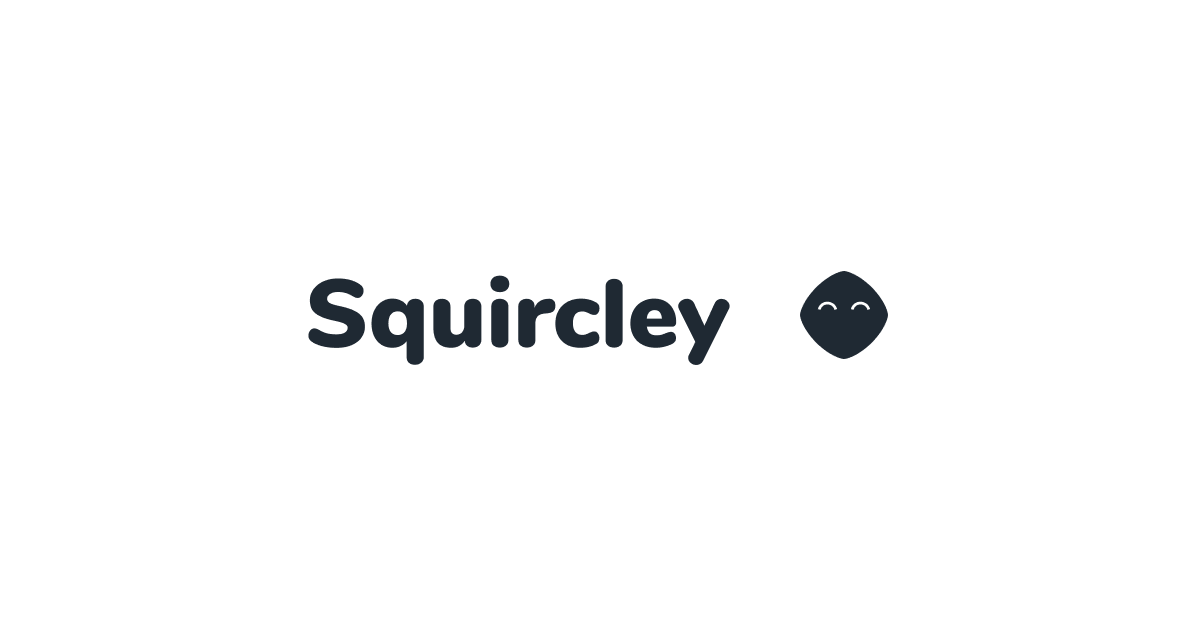
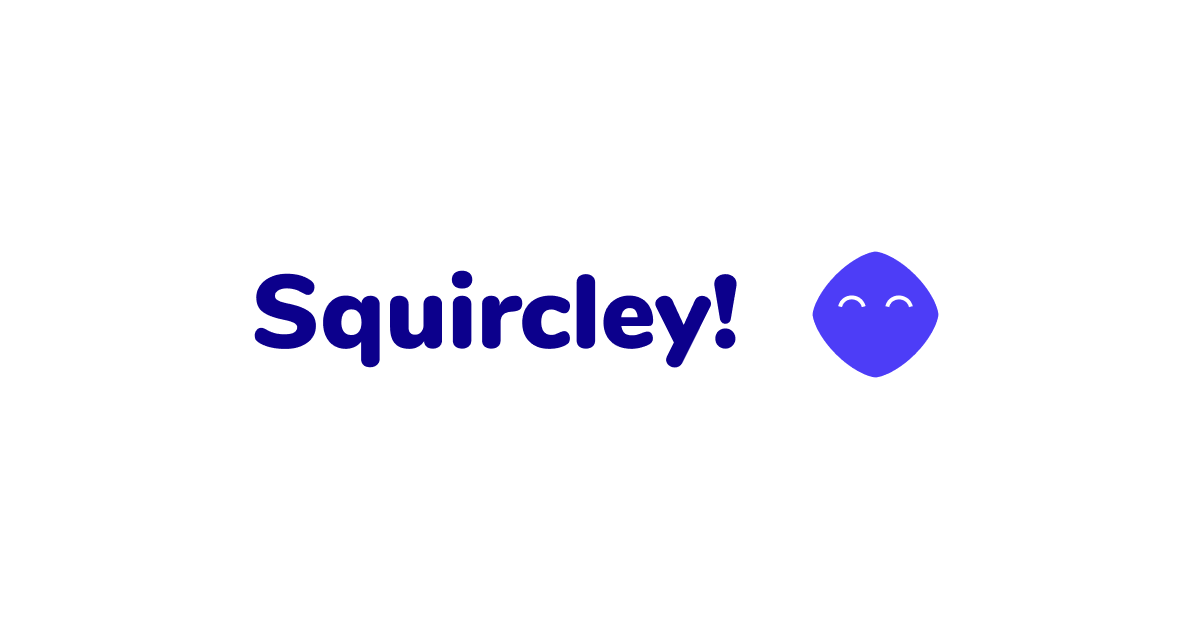
colors everywhere

Changed region(s): [[0.2158, 0.4222, 0.6167, 0.6032], [0.6475, 0.3921, 0.8017, 0.6032]]

diff --git a/src/components/GeneratorControls.vue b/src/components/GeneratorControls.vue
@@ -97,6 +97,24 @@ export default {
                 />
                 <VSwatches
                     v-model="fill"
+                    :swatches="[
+                        '#199473',
+                        '#65D6AD',
+                        '#C6F7E2',
+                        '#EFFCF6',
+                        '#035388',
+                        '#1992D4',
+                        '#5ED0FA',
+                        '#E3F8FF',
+                        '#8A041A',
+                        '#E12D39',
+                        '#F86A6A',
+                        '#FFE3E3',
+                        '#DE911D',
+                        '#F0B429',
+                        '#FADB5F',
+                        '#FFF3C4',
+                    ]"
                     :trigger-style="{
                         width: '64px',
                         height: '48px',
@@ -165,6 +183,7 @@ export default {
 .generator-conrols__swatch-text {
     position: relative;
     width: 100%;
+    min-width: 0;
     text-transform: uppercase;
     height: 100%;
     padding-left: var(--spacing-3);
@@ -175,7 +194,7 @@ export default {
     transition: border 125ms ease-in-out;
 }
 
-.generator-conrols__swatch-text:hover {
+.generator-controls__swatch:hover .generator-conrols__swatch-text {
     border: 2px solid var(--grey-100);
     border-right: 0;
 }
@@ -229,7 +248,7 @@ hr {
     transition: transform 125ms ease-in-out;
 }
 
-.vue-swatches__trigger__wrapper:hover {
+.generator-controls__swatch:hover .vue-swatches__trigger__wrapper {
     transform: scaleX(1.125);
 }
 </style>

diff --git a/src/components/GeneratorExportOptions.vue b/src/components/GeneratorExportOptions.vue
@@ -49,7 +49,9 @@ export default {
             class="generator-export-controls__btn"
             @click="copySVGToClipBoard"
         >
-            Copy
+            <span>
+                Copy
+            </span>
             <ClipBoardIcon />
         </button>
     </div>
@@ -75,9 +77,13 @@ export default {
     background: #fff;
     border-radius: 12px;
     font-weight: 700;
-    border: 2px solid var(--grey-100);
-    color: var(--grey-900);
-    transition: background-color 125ms ease-in-out;
+    border: 2px solid #4d3df7;
+    color: #4d3df7;
+    transition: transform 125ms ease-in-out;
+}
+
+.generator-export-controls__btn span {
+    transition: transform 125ms ease-in-out;
 }
 
 .generator-export-controls__btn svg {
@@ -85,15 +91,12 @@ export default {
     height: 24px;
     stroke-width: 1.5px;
     margin-left: var(--spacing-2);
-    stroke: var(--grey-900);
+    stroke: #4d3df7;
     transition: stroke 125ms ease-in-out, transform 125ms ease-in-out;
 }
 
-.generator-export-controls__btn:hover {
-    color: var(--grey-900);
-    font-weight: 700;
-    border-color: var(--grey-100);
-    background: var(--grey-000);
+.generator-export-controls__btn:hover svg {
+    transform: scale(1.125);
 }
 
 .generator-export-controls__btn:active svg {
@@ -102,5 +105,12 @@ export default {
 
 .generator-export-controls__btn:first-child {
     margin-left: 0;
+    background: #4d3df7;
+    color: #e6e6ff;
+    border: 0;
+}
+
+.generator-export-controls__btn:first-child svg {
+    stroke: #e6e6ff;
 }
 </style>

diff --git a/src/assets/styles/app.css b/src/assets/styles/app.css
@@ -55,6 +55,10 @@ button {
     background-color: transparent;
 }
 
+button > * {
+    pointer-events: none;
+}
+
 embed,
 iframe,
 img,
@@ -107,16 +111,16 @@ table {
     --spacing-15: 48rem;
 
     /* Colors - Grey */
-    --grey-900: #1f2933;
-    --grey-800: #323f4b;
-    --grey-700: #3e4c59;
-    --grey-600: #52606d;
-    --grey-500: #616e7c;
-    --grey-400: #7b8794;
-    --grey-300: #9aa5b1;
-    --grey-200: #cbd2d9;
-    --grey-100: #e4e7eb;
-    --grey-000: #f5f7fa;
+    --grey-900: #102a43;
+    --grey-800: #243b53;
+    --grey-700: #334e68;
+    --grey-600: #486581;
+    --grey-500: #627d98;
+    --grey-400: #829ab1;
+    --grey-300: #9fb3c8;
+    --grey-200: #bcccdc;
+    --grey-100: #d9e2ec;
+    --grey-000: #f0f4f8;
 }
 
 /* Global Styles */
@@ -131,9 +135,9 @@ body:not(.user-is-tabbing) textarea:focus {
 body {
     font-family: var(--font-family);
     line-height: 1;
-    color: var(--grey-900);
+    color: #0c008c;
     -webkit-font-smoothing: antialiased;
-    -moz-osx-font-smothing: grayscale;
+    -moz-osx-font-smoothing: grayscale;
     background: var(--grey-000);
     overflow-x: hidden;
 }

diff --git a/src/components/TheSquircleExplosion.vue b/src/components/TheSquircleExplosion.vue
@@ -33,7 +33,8 @@ export default {
     position: absolute;
     width: 64px;
     height: 64px;
-    fill: var(--grey-100);
+    fill: #7069fa;
+    opacity: 0.75;
 }
 
 .squircle-explosion__squircle:nth-of-type(1) {
@@ -46,6 +47,7 @@ export default {
     top: var(--spacing-11);
     right: var(--spacing-5);
     transform: rotate(32deg);
+    fill: #f86a6a;
 }
 
 .squircle-explosion__squircle:nth-of-type(3) {
@@ -54,6 +56,7 @@ export default {
     top: var(--spacing-13);
     left: var(--spacing-9);
     transform: rotate(54deg);
+    fill: #fadb5f;
 }
 
 .squircle-explosion__squircle:nth-of-type(4) {
@@ -62,6 +65,7 @@ export default {
     top: var(--spacing-13);
     right: var(--spacing-8);
     transform: rotate(128deg);
+    fill: #fadb5f;
 }
 
 .squircle-explosion__squircle:nth-of-type(5) {
@@ -70,6 +74,7 @@ export default {
     top: var(--spacing-8);
     right: var(--spacing-12);
     transform: rotate(128deg);
+    fill: #7069fa;
 }
 
 @media only screen and (max-width: 72rem) {

diff --git a/src/components/TheGenerator.vue b/src/components/TheGenerator.vue
@@ -13,7 +13,7 @@ export default {
             squircleOpts: {
                 curvature: 0.5,
                 scale: '100',
-                fill: '#1f2933',
+                fill: '#FADB5F',
             },
             path: '',
         };
@@ -72,7 +72,7 @@ export default {
     grid-gap: var(--spacing-6);
     padding: var(--spacing-5);
     background: #fff;
-    box-shadow: 0 12px 32px rgba(0, 0, 0, 0.075);
+    box-shadow: 0 24px 32px rgba(16, 42, 67, 0.075);
     border-radius: 48px;
 }
 

diff --git a/src/components/BaseRangeInput.vue b/src/components/BaseRangeInput.vue
@@ -61,7 +61,7 @@ input[type='range'] {
     --thumb-width: 16px;
     --thumb-height: 32px;
     --thumb-radius: 16px;
-    --thumb-bg: var(--grey-900);
+    --thumb-bg: #4d3df7;
     --thumb-scale: 1;
     --track-height: 4px;
     --track-radius: 2px;
@@ -69,7 +69,6 @@ input[type='range'] {
 }
 
 input[type='range']:hover {
-    --track-bg: var(--grey-100);
     --thumb-scale: 1.125;
 }
 

diff --git a/src/components/TheInfoSection.vue b/src/components/TheInfoSection.vue
@@ -56,6 +56,7 @@ export default {
     grid-column: 9 / 13;
     grid-row: 1;
     margin-top: 0;
+    width: 100%;
 }
 
 .info-section__squiggle {
@@ -92,6 +93,10 @@ export default {
 
     .info-section__paragraph {
         font-size: var(--font-size-3);
+    }
+
+    .info-section__squiggle {
+        margin-bottom: var(--spacing-6);
     }
 }
 </style>

diff --git a/src/components/SocialSharing.vue b/src/components/SocialSharing.vue
@@ -56,7 +56,7 @@ export default {
 .social-sharing__icon svg {
     width: 100%;
     height: 100%;
-    fill: var(--grey-900);
+    fill: #0c008c;
     transition: fill 125ms ease-in-out, transform 125ms ease-in-out;
 }
 

diff --git a/src/App.vue b/src/App.vue
@@ -33,6 +33,7 @@ export default {
         <TheSquircleExplosion />
         <div class="app__content">
             <TheGenerator />
+
             <TheInfoSection />
         </div>
     </div>

diff --git a/src/components/TheHeader.vue b/src/components/TheHeader.vue
@@ -42,7 +42,7 @@ export default {
 .header__logo svg {
     width: 100%;
     height: 100%;
-    fill: var(--grey-900);
+    fill: #4d3df7;
 }
 
 .header__title {
